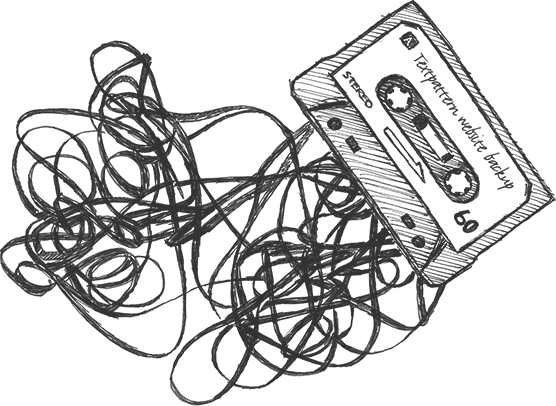
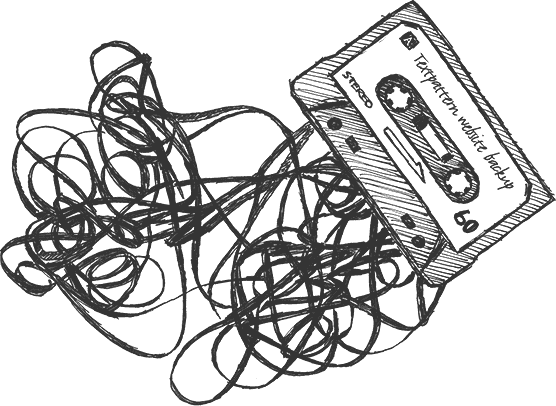
Optimise error image
Fixes #217

diff --git a/src/mockups/error.html b/src/mockups/error.html
@@ -75,13 +75,9 @@
                     </div>
                     <div class="layout-2col">
                         <p>
-                            <img class="prefers-color-scheme" width="556" height="406" alt="Page error"
+                            <img class="page-error" width="556" height="406" alt="Page error"
                                 src="https://textpattern.com/assets/img/com/error.png"
-                                data-src-light="https://textpattern.com/assets/img/com/error.png"
-                                data-src-dark="https://textpattern.com/assets/img/com/dark-error.png"
-                                srcset="https://textpattern.com/assets/img/com/error@2x.png 2x"
-                                data-srcset-light="https://textpattern.com/assets/img/com/error@2x.png 2x"
-                                data-srcset-dark="https://textpattern.com/assets/img/com/dark-error@2x.png 2x">
+                                srcset="https://textpattern.com/assets/img/com/error@2x.png 2x">
                         </p>
                     </div>
                 </div>

diff --git a/src/assets/sass/modules/_layout.scss b/src/assets/sass/modules/_layout.scss
@@ -546,6 +546,7 @@ main .layout-4col-3span {
 
 @include dark-mode {
     .the-carver,
+    .page-error,
     .index-feature h3::before,
     .index-docs h3::before,
     .showcase-container h3,
